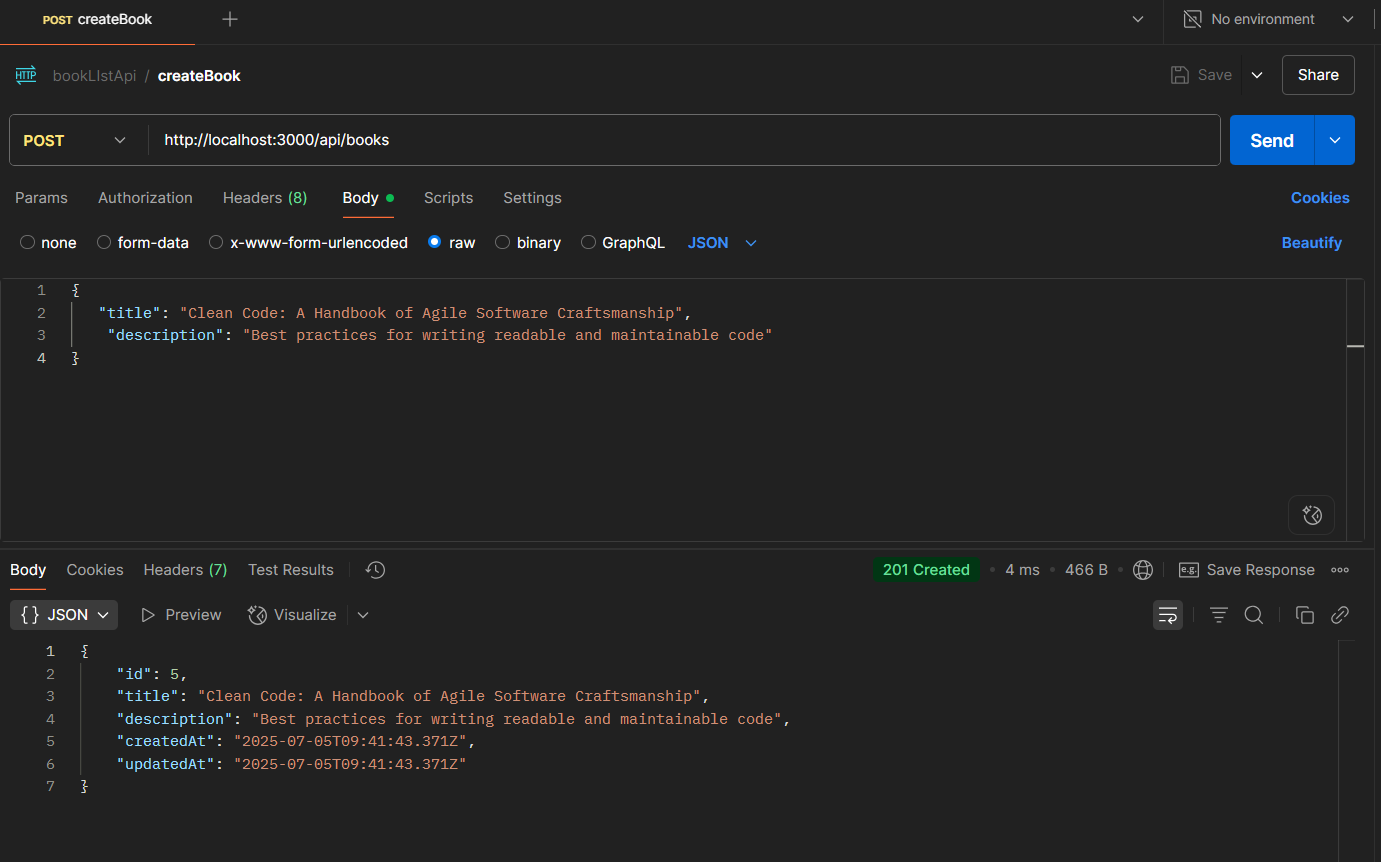
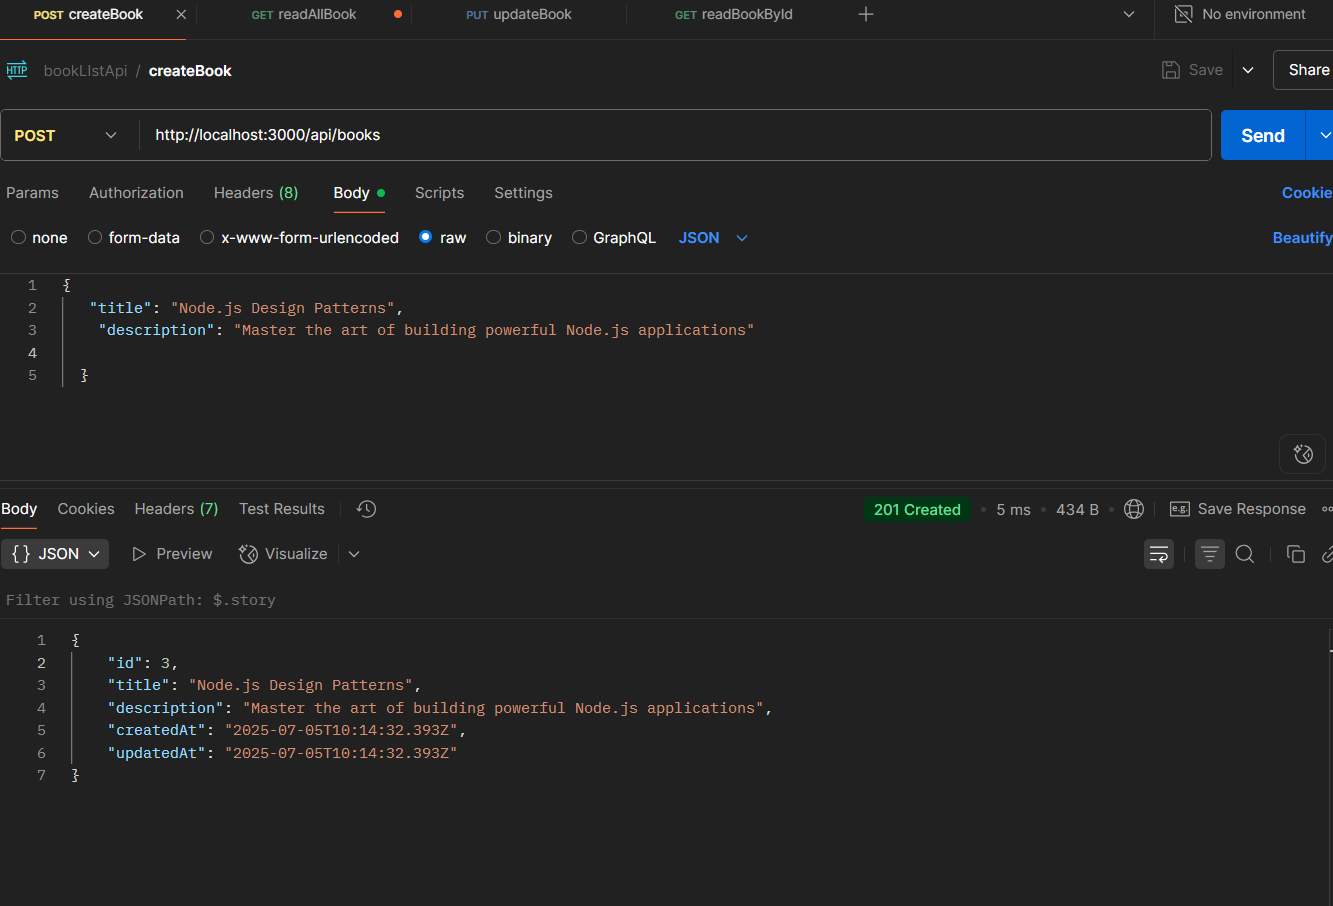
some updates

diff --git a/app/controllers/bookController.js b/app/controllers/bookController.js
@@ -1,4 +1,4 @@
-const bookService = require('../services/bookService');
+const bookService = require("../services/bookService");
 
 const createBook = async (req, res, next) => {
   try {
@@ -14,6 +14,36 @@ const getAllBooks = async (req, res, next) => {
   try {
     const books = await bookService.getAllBooks();
     res.status(200).json(books);
+  } catch (error) {
+    next(error);
+  }
+};
+
+const getBookById = async (req, res, next) => {
+  try {
+    const { id } = req.params;
+
+    // Validate ID
+    if (!id || isNaN(Number(id))) {
+      return res.status(400).json({
+        success: false,
+        message: "Invalid book ID format",
+      });
+    }
+
+    const book = await bookService.getBookById(id);
+
+    if (!book) {
+      return res.status(404).json({
+        success: false,
+        message: `Book with ID ${id} not found`,
+      });
+    }
+
+    res.status(200).json({
+      success: true,
+      data: book,
+    });
   } catch (error) {
     next(error);
   }
@@ -44,5 +74,6 @@ module.exports = {
   createBook,
   getAllBooks,
   updateBook,
-  deleteBook
+  getBookById,
+  deleteBook,
 };

diff --git a/app/services/bookService.js b/app/services/bookService.js
@@ -34,7 +34,15 @@ const updateBook = (id, title, description) => {
   books[bookIndex] = updatedBook;
   return updatedBook;
 };
+const getBookById = (id) => {
+  const bookId = Number(id);
+  
+  if (isNaN(bookId)) {
+    throw new Error('Invalid book ID');
+  }
 
+  return books.find(book => book.id === bookId) || null;
+};
 const deleteBook = (id) => {
   const initialLength = books.length;
   books = books.filter(book => book.id !== Number(id));
@@ -48,5 +56,6 @@ module.exports = {
   createBook,
   getAllBooks,
   updateBook,
+  getBookById,
   deleteBook
 };

diff --git a/app/routes/bookRoutes.js b/app/routes/bookRoutes.js
@@ -4,6 +4,7 @@ const bookController = require('../controllers/bookController');
 
 router.post('/', bookController.createBook);
 router.get('/', bookController.getAllBooks);
+router.get('/:id', bookController.getBookById);
 router.put('/:id', bookController.updateBook);
 router.delete('/:id', bookController.deleteBook);
 

diff --git a/README.md b/README.md
@@ -81,7 +81,7 @@ npm install
 3. **Run the Server**
 
 ```bash
-npm start
+node app/server.js
 ```
 
 The server will run on `http://localhost:3000` by default.
@@ -122,6 +122,15 @@ GET /api/books/1
 ### GET all books
 
 ![GET Example](https://raw.githubusercontent.com/duduBmoon21/wtm-bookListApi/main/static/GET.png)
+
+### create new book
+![POST Example](https://raw.githubusercontent.com/duduBmoon21/wtm-bookListApi/main/static/POST.png)
+
+### update book
+![PUT Example](https://raw.githubusercontent.com/duduBmoon21/wtm-bookListApi/main/static/PUT.png)
+
+### Get Book by ID
+![GETbyID Example](https://raw.githubusercontent.com/duduBmoon21/wtm-bookListApi/main/static/GETbyId.png)
 
 ---
 
